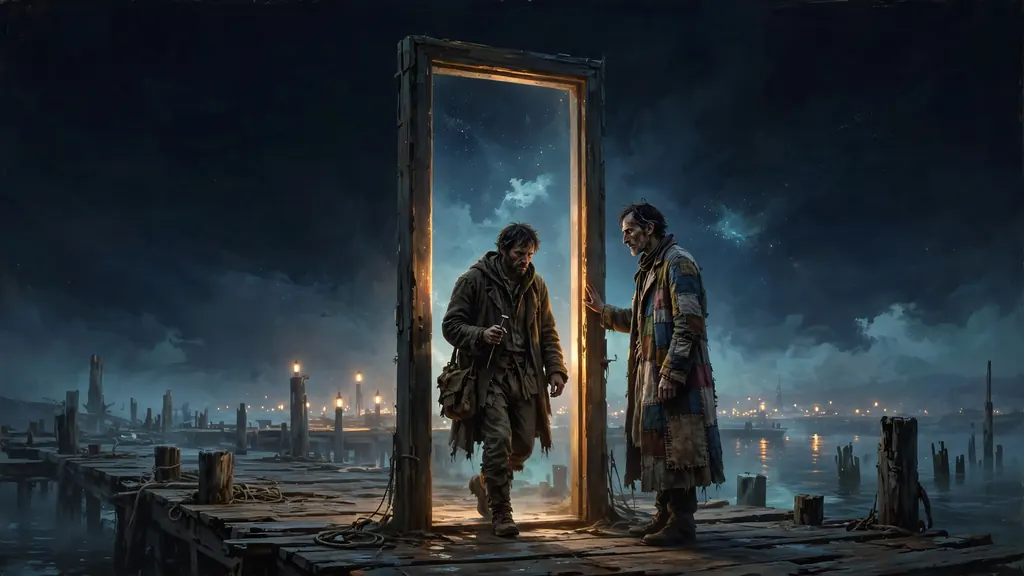
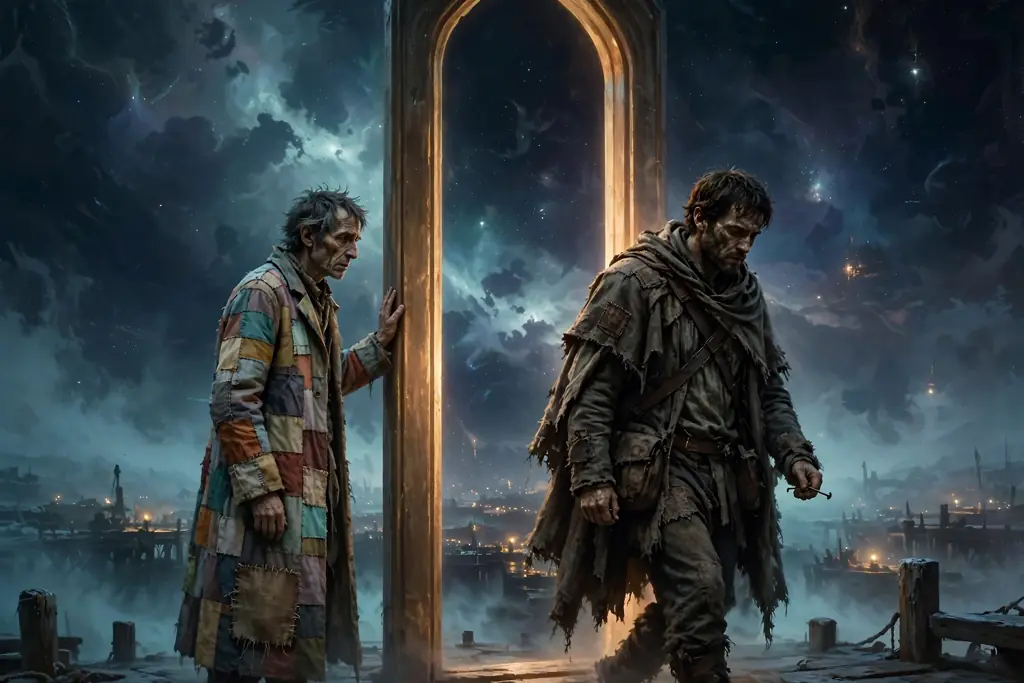
Lore: pin Calend as older and grey (Bible); Book picture for the Harbor Nail is now §44 v4
Claude-Session: https://claude.ai/code/session_01MYDtK5kB4zbrAWHtzkyWMy

diff --git a/packages/web/src/lib/storyArt.ts b/packages/web/src/lib/storyArt.ts
@@ -17,7 +17,7 @@ export const STORY_ART: Readonly<Record<string, { src: string; alt: string }>> =
   "obj.dorrows-page": { src: "/lore/obj.dorrows-page.webp", alt: "A heavy man in a burgundy velvet coat smiles behind an enormous open ledger among towering shelves and brass lamps." },
   "echo.eighth-bell": { src: "/lore/echo.eighth-bell.webp", alt: "A row of small keepers' emblems, each carrying a bell, along a stone ledge; at the end a hooded figure raises a fist to ring a bell that is not there, and rings of light spread out." },
   "sight.gatepost-lamp": { src: "/lore/sight.gatepost-lamp.webp", alt: "A weathered old woman in a long dark-green scarf pours oil into a lantern beside an iron gate-post on a night harbor wall, with a coil of rope and empty oil tins at her feet." },
-  "relic.harbor-nail": { src: "/lore/relic.harbor-nail.webp", alt: "A travel-worn man steps out of a tall narrow door standing alone on a harbor pier, an iron nail in his hand; beside the door a wiry man in a patchwork coat rests his palm on the frame." },
+  "relic.harbor-nail": { src: "/lore/relic.harbor-nail.webp", alt: "A travel-worn younger man in a ragged hooded cloak walks out of a tall narrow door standing alone on a harbor pier, an iron nail in his hand; beside the door a grey-haired, lined man in a many-coloured patchwork coat rests his palm on the frame." },
   "sight.locked-room": { src: "/lore/sight.locked-room.webp", alt: "A big stern man in a Warden's coat polishes a tin soldier in a long store-room lined with small belongings, each on a blank paper tag, under one hanging lamp." },
   "obj.linnets-coat": { src: "/lore/obj.linnets-coat.webp", alt: "Three panels: a long coat on a hook beside a child's drawing of a faceless woman; a half-transparent woman asleep on a narrow cot beside a bowl of soup; a small child, seen from behind, setting an extra place at a long table." },
   "sight.ruels-laugh": { src: "/lore/sight.ruels-laugh.webp", alt: "In a ward of narrow cots under ember lanterns, a half-transparent man sits up laughing, the laugh a ring of gold light; a woman in a green apron, a bowl in her hand, covers her mouth beside him." },

diff --git a/docs/lore/CONTINUITY_BIBLE.md b/docs/lore/CONTINUITY_BIBLE.md
@@ -15,7 +15,7 @@
 | **Eternity** | **he/him** | ageless; tall, broad, radiant, vast | white-on-white, pearl, faint gold; ring of own light behind head (not a halo from any religion) | female, ship, a clear face |
 | **Oru, the Dawnkeeper** | **he/him** (Draft 2: "he alone remembers") | old, calm, slight | pale robes; a small cup of morning light | young, armoured |
 | **Sethane, the Measurer** | **she/her** ("her apprentice" — the Surveyor) | tall, slim, dark-clad; tired from wonder | ring of measuring arms; a knotted cord with the LAST KNOT UNTIED | a weapon |
-| **Calend, the Doorkeeper** (the Wayfarer) | **he/him** | wiry, travel-worn, wry, ancient eyes | long layered coat of many faded colours (one patch unfinished); an always-warm iron nail; a door-frame | a home; a uniform |
+| **Calend, the Doorkeeper** (the Wayfarer) | **he/him** | **older and grey (fixed — owner 2026-10-31, "like §44 v4"): lined face, grey untidy hair; never young or dark-haired**; wiry, travel-worn, wry, ancient eyes | long layered coat of many faded colours (one patch unfinished); an always-warm iron nail; a door-frame | a home; a uniform |
 | **Maren, the Gardener** | **she/her** | patient, middle-aged, weathered hands | green-gold robes; a seedling; a watering can with a stoppered spout | blades, machinery |
 | **Nuaré, the Hearthkeeper** | **she/her** | warm, broad, ageless mother-presence | ember-orange; a cushion carried between hearths; a lantern-like glow | cold colours |
 | **Vesh, the Hollow Mercy** | **they/them** | androgynous, tall, tired | chest hollow; hooded dusk robes; folded paper boats | cruelty — Vesh is sympathetic |

diff --git a/docs/lore/art/CLAUDE_REVIEW.md b/docs/lore/art/CLAUDE_REVIEW.md
@@ -76,3 +76,5 @@ Approved by eye and placed in the Book (new entries `sight.ruels-laugh`, `sight.
 - §53 **v3** — RULING on the hovering word: no legible word (standing rule: no readable writing; a spelled-out "truth" explains the entry's meaning, which alt text and picture must never do). v3 keeps the idea as a loose drifting thread of light. Placed on `account.tall-tale`. Flags for the owner: Ossian reads older/grey-haired here (v1/v2/v4 are dark-haired middle-aged — pick by the Bible's age if it matters), and v3's crowd has one non-human traveller (grey-blue, goggles), the only one in the harbor sets so far.
 
 - §53 **AMENDED** (owner: "make sure the age stayed the same"): Ossian's age is now fixed in the Continuity Bible — middle-aged, dark untidy hair, short stubble — so v3 (grey topknot, older) is withdrawn. The Book now uses **v1 cropped below the hovering word** (the crop removes all lettering; the picture shows no text). v1/v2/v4 match the fixed age. Muse: any new Ossian image must keep it. **Still open:** Calend has no stated apparent age in the Bible either (v1/v2/v5 of §44 younger dark-haired vs v4 older greyer) — I need the owner's number or a pick before pinning it.
+
+- §44 **AMENDED** (owner 2026-10-31: "Calend should be older and greyer, like v4"): Calend's apparent age is now fixed in the Continuity Bible — older, lined, grey. The Book's picture for `relic.harbor-nail` is now **v4** (was v1). v1/v2/v5 (younger, dark-haired Calend) are withdrawn from use. Muse: any Calend image must match v4's age.
